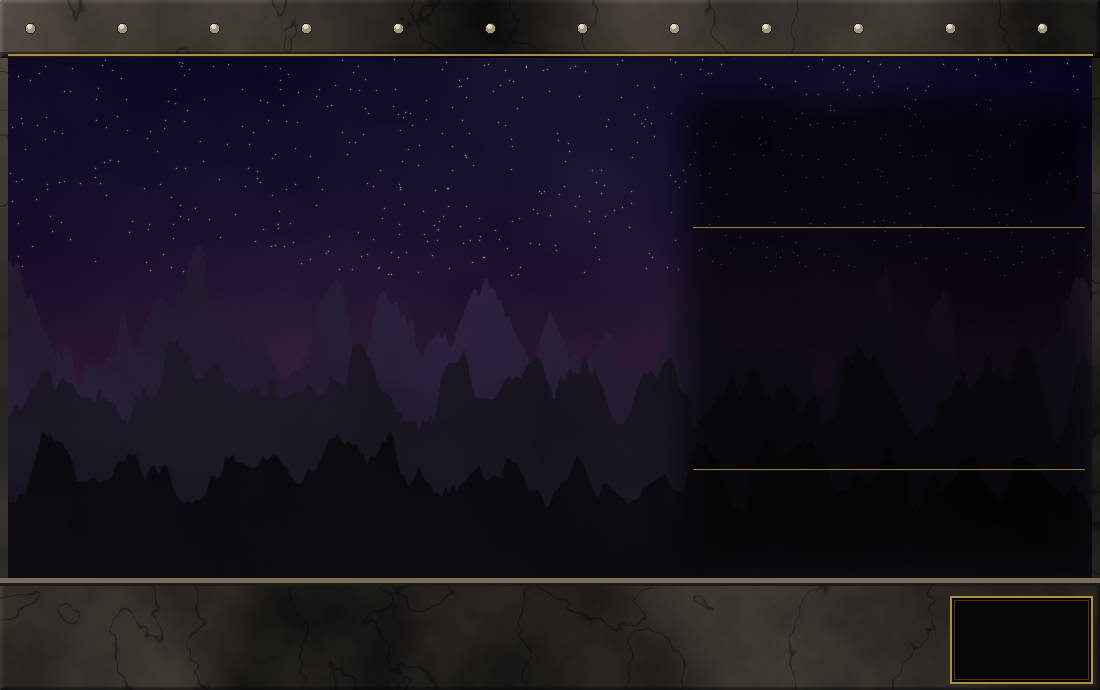
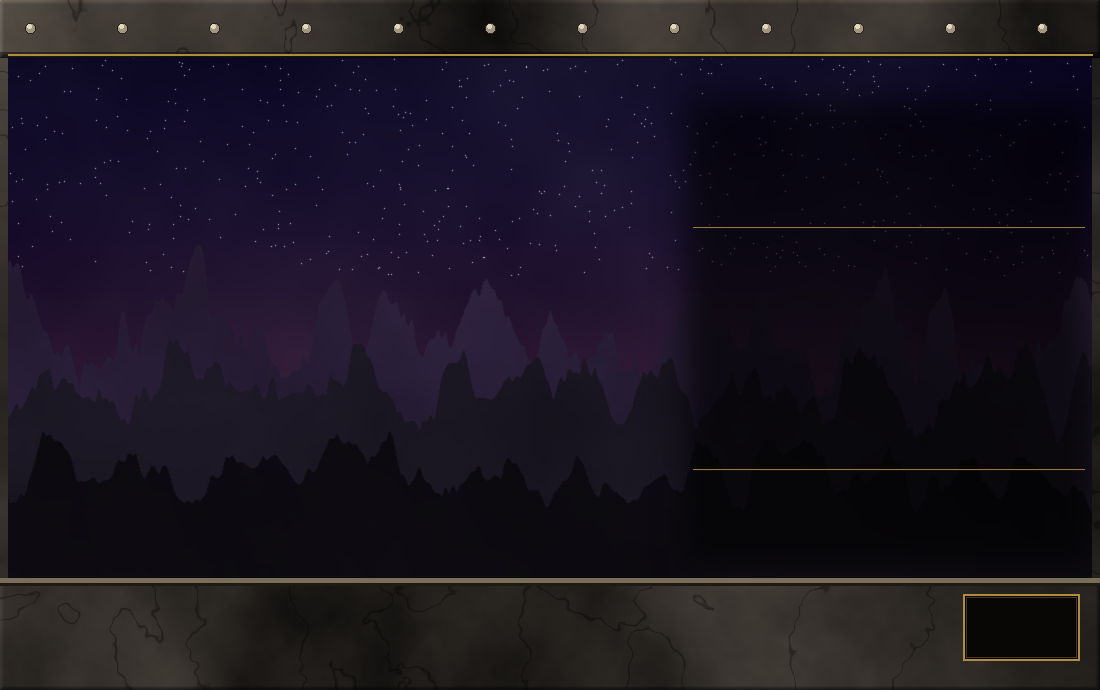
Section box in the launcher's stone and gold; smaller PLAY with the status above and time played below; game version in the bottom-right corner
Claude-Session: https://claude.ai/code/session_01HdbMracJDFwwKnLVPZ96Xg

Changed region(s): [[0.8655, 0.8522, 1.0, 1.0]]

diff --git a/src/Launcher.cs b/src/Launcher.cs
@@ -88,14 +88,14 @@ namespace AzerothLauncher
             StartPosition = FormStartPosition.CenterScreen;
 
             // layout: PLAY in the box at the bottom right, the sections under the news, the rest in the bottom bar
-            playBtn = Place(new WowButton("PLAY", Play, 130, 74, 16), 956, 603);
+            playBtn = Place(new WowButton("PLAY", Play, 104, 58, 14), 969, 598);         // smaller: status above, time played below
             playBtn.Skin = Retro.Play;
             foreach (string name in navNames)
             {
                 string n = name;
                 bool low = n == "Guide" || n == "Addons";       // these two sit in the bottom bar
                 nav[n] = Place(new WowButton(n.ToUpperInvariant(), delegate { ShowSection(n); }, low ? 159 : 128, 27, 8.5f),
-                               low ? (n == "Guide" ? 612 : 779) : 693, low ? H - 8 - 27 : 480);   // Guide and Addons: along the very bottom
+                               low ? (n == "Guide" ? 445 : 612) : 693, low ? H - 8 - 27 : 480);   // Guide and Addons: along the very bottom
                 nav[n].Skin = low ? Retro.Long : Retro.Button;
             }
             aboutBtn = Place(new WowButton("ABOUT LAUNCHER", delegate { ShowSection("About Launcher"); }, 159, 27, 8), W - 8 - 159 - 6, 98);         // under UPDATE LAUNCHER
@@ -295,12 +295,8 @@ namespace AzerothLauncher
                 g.DrawString(Lang.T("News"), hf, gold, 697, 204);
                 g.DrawString(Lang.T("Launcher"), hf, shadow, 698, 447);
                 g.DrawString(Lang.T("Launcher"), hf, gold, 697, 446);
-                // bottom bar: game version, the welcome line, play time, cloud note, status
-                string version = Data.GameVersion;
-                string gv = Lang.T("Game version") + (version.Length > 0 ? ":  " + version : "");
-                g.DrawString(gv, hf, shadow, 33, 591);
-                g.DrawString(gv, hf, gold, 32, 590);
             }
+            // bottom bar, left: the welcome line and the cloud note
             string bodyText = ClientPresent() ? "Press PLAY to enter Azeroth." :
                 (RequireLauncherInstall ? "Game client not found. Press INSTALL to download it first."
                                         : "Game client not found. Press INSTALL, or set the game folder in Options.");
@@ -308,30 +304,42 @@ namespace AzerothLauncher
             using (var b = new SolidBrush(Theme.Hex("#d7cea4")))
             using (var sh = new SolidBrush(Color.Black))
             {
-                var box = new RectangleF(32, 614, 560, 34);
+                var box = new RectangleF(32, 594, 395, 50);
                 g.DrawString(Lang.T(bodyText), Theme.F(9), sh, new RectangleF(box.X + 1, box.Y + 1, box.Width, box.Height));
                 g.DrawString(Lang.T(bodyText), Theme.F(9), b, box);
             }
-            PlayStats ps = ShownPlayStats();
-            string line = "";
-            if (ps.Sessions > 0 && StatsEnabled() && Cfg.Bool("home_playtime", true))
-                line = Lang.T("Time played: " + Duration(ps.Seconds) + "   |   Last session: " + Duration(ps.LastSeconds));
-            if (cloudNote.Length > 0) line = (line.Length > 0 ? line + "   |   " : "") + Lang.T(cloudNote);
-            if (line.Length > 0)
-                g.DrawString(line, Theme.F(8, FontStyle.Italic), new SolidBrush(Retro.Gold), new RectangleF(32, 646, 560, 16));
-            g.DrawString(Lang.T(status), Theme.F(9, FontStyle.Italic), new SolidBrush(Theme.Hex("#fff2b0")), new RectangleF(32, 663, 560, 18));
+            using (var gb = new SolidBrush(Retro.Gold))
+            using (var sf = new StringFormat())
+            {
+                if (cloudNote.Length > 0)
+                    g.DrawString(Lang.T(cloudNote), Theme.F(8, FontStyle.Italic), gb, new RectangleF(32, 640, 395, 16));
+                // bottom bar, right: status above PLAY, time played below it, the game version in the corner
+                sf.Alignment = StringAlignment.Center;
+                var rc = new RectangleF(800, 0, 292, 16);
+                using (var sb = new SolidBrush(Theme.Hex("#fff2b0")))
+                    g.DrawString(Lang.T(status), Theme.F(9, FontStyle.Italic), sb, new RectangleF(rc.X, 580, rc.Width, 16), sf);
+                PlayStats ps = ShownPlayStats();
+                if (ps.Sessions > 0 && StatsEnabled() && Cfg.Bool("home_playtime", true))
+                    g.DrawString(Lang.T("Time played: " + Duration(ps.Seconds) + "   |   Last session: " + Duration(ps.LastSeconds)),
+                                 Theme.F(8, FontStyle.Italic), gb, new RectangleF(rc.X, 658, rc.Width, 14), sf);
+                string version = Data.GameVersion;
+                sf.Alignment = StringAlignment.Far;
+                using (var vb = new SolidBrush(Theme.Hex("#b8a27a")))
+                    g.DrawString(Lang.T("Game version") + (version.Length > 0 ? ": " + version : ""), Theme.F(8), vb,
+                                 new RectangleF(rc.X, 673, rc.Width - 2, 14), sf);
+            }
         }
 
         public void SetStatus(string msg)
         {
             status = msg ?? "";
-            Invalidate(new Rectangle(20, 643, 740, 42));
+            Invalidate(new Rectangle(0, 578, W, H - 578));
         }
 
         public void SetCloudNote(string text)
         {
             cloudNote = text ?? "";
-            Invalidate(new Rectangle(20, 643, 740, 42));
+            Invalidate(new Rectangle(0, 578, W, H - 578));
         }
 
         // a section button is hidden while its feature is off: Cloud Save (cloud saving) and Stats (Options)
@@ -364,7 +372,7 @@ namespace AzerothLauncher
             else if (Installing) { playBtn.Label = "INSTALLING"; playBtn.FontSize = 18; }
             else if (Updating) { playBtn.Label = "UPDATING"; playBtn.FontSize = 20; }
             else { playBtn.Label = ClientPresent() ? "PLAY" : "INSTALL"; playBtn.FontSize = 24; }
-            Invalidate(new Rectangle(20, 584, 740, 102));
+            Invalidate(new Rectangle(0, 578, W, H - 578));
             RefreshGates();
         }
 

diff --git a/src/Sections.cs b/src/Sections.cs
@@ -24,7 +24,7 @@ namespace AzerothLauncher
             SetStyle(ControlStyles.AllPaintingInWmPaint | ControlStyles.UserPaint | ControlStyles.OptimizedDoubleBuffer |
                      ControlStyles.ResizeRedraw, true);
             Height = 50;
-            BackColor = Theme.Hex("#15100a");
+            BackColor = Theme.Hex("#0e0d14");
         }
 
         public string Title { get { return title; } set { title = value; Invalidate(); } }
@@ -36,13 +36,9 @@ namespace AzerothLauncher
             Graphics g = e.Graphics;
             g.Clear(BackColor);
             int w = Math.Max(Width, 200);
-            for (int i = 0; i < 30; i++)                     // bronze bar with a gradient
-            {
-                float y = 11 + i * 0.9f;
-                using (var p = new Pen(Theme.Mix(Theme.Hex("#6a5026"), Theme.Hex("#241908"), i / 29.0), 1.5f))
-                    g.DrawLine(p, 30, y, w - 4, y);
-            }
-            using (var p = new Pen(Theme.Hex("#b8893a"), 2)) g.DrawRectangle(p, 30, 11, w - 34, 27);
+            Image bar = Retro.Get("long");                  // the launcher's blue stone, framed in gold
+            if (bar != null) g.DrawImage(bar, new Rectangle(30, 11, w - 34, 28));
+            using (var p = new Pen(Theme.Hex("#c49a48"), 2)) g.DrawRectangle(p, 30, 11, w - 34, 27);
             Theme.Smooth(g);
             using (var sf = new StringFormat())
             using (var b = new SolidBrush(Theme.Hex("#fff0b0")))
@@ -143,7 +139,7 @@ namespace AzerothLauncher
         // ------------------------------------------------------------------ the window itself
         void BuildSide()
         {
-            Color bronzeD = Theme.Hex("#3a2a12"), dark = Theme.Hex("#15100a");
+            Color bronzeD = Theme.Hex("#2a2620"), dark = Theme.Hex("#0e0d14");   // night stone, like the launcher
             side = new Form();
             side.FormBorderStyle = FormBorderStyle.None;
             side.ShowInTaskbar = false;                      // the sections open inside the launcher, on its left side
@@ -163,7 +159,7 @@ namespace AzerothLauncher
                     CloseSide();
                 }
             };
-            var frame = new Bordered(Theme.Hex("#b8893a"), 2);
+            var frame = new Bordered(Theme.Hex("#c49a48"), 2);
             frame.Dock = DockStyle.Fill;
             side.Controls.Add(frame);
             var inner = new Panel();
@@ -204,7 +200,7 @@ namespace AzerothLauncher
                 strip.Controls.Add(b);
             }
             // left: the chat-style area that holds the section
-            var chat = new Bordered(Theme.Hex("#6b4a1c"), 2);
+            var chat = new Bordered(Theme.Hex("#8a7040"), 2);
             chat.Dock = DockStyle.Fill;
             body.Controls.Add(chat);
             chat.BringToFront();

diff --git a/src/Controls.cs b/src/Controls.cs
@@ -1,4 +1,4 @@
-// The look: 2006 wow.com colours, the gold bevel buttons, small icon buttons and shared UI helpers.
+// The look: 2006 wow.com colours, the gold bevel buttons, small icon buttons and shared UI helpers.
 using System;
 using System.Collections.Generic;
 using System.Drawing;
@@ -334,8 +334,10 @@ namespace AzerothLauncher
             Graphics g = e.Graphics;
             int s = Width;
             bool lit = !grayed && (active || hover);
-            g.Clear(Theme.Hex("#15100a"));
-            using (var b = new SolidBrush(Theme.Hex("#1c130a"))) g.FillRectangle(b, 1, 1, s - 3, s - 3);
+            g.Clear(Theme.Hex("#0e0d14"));
+            Image stone = Retro.Get(lit ? "btn_hover" : "btn");    // the launcher's blue stone
+            if (stone != null && !grayed) g.DrawImage(stone, new Rectangle(1, 1, s - 2, s - 2));
+            else using (var b = new SolidBrush(Theme.Hex("#1c1a20"))) g.FillRectangle(b, 1, 1, s - 3, s - 3);
             using (var p = new Pen(lit ? Theme.Gold : grayed ? Theme.Hex("#4a443a") : Theme.Hex("#7a5a22"), 2)) g.DrawRectangle(p, 1, 1, s - 3, s - 3);
             using (var p = new Pen(Theme.Hex("#3a2a12"), 1)) g.DrawRectangle(p, 4, 4, s - 9, s - 9);
             Theme.Smooth(g);

diff --git a/tools/make_launcher_art.py b/tools/make_launcher_art.py
@@ -155,8 +155,8 @@ def background(emblem):
             d.ellipse((sx - 5, sy - 5, sx + 5, sy + 5), fill=(160, 150, 130), outline=(40, 34, 26))
             d.ellipse((sx - 3, sy - 4, sx + 1, sy), fill=(225, 215, 190))
     # PLAY box: dark recess with a gold trim
-    d.rectangle((950, 596, 1092, 683), fill=(8, 7, 6), outline=(176, 140, 64), width=2)
-    d.rectangle((954, 600, 1088, 679), outline=(70, 55, 28), width=1)
+    d.rectangle((963, 594, 1079, 660), fill=(8, 7, 6), outline=(176, 140, 64), width=2)
+    d.rectangle((966, 597, 1076, 657), outline=(70, 55, 28), width=1)
     # the game's emblem (Azeroth Survivors / Aethus) at the top
     # (the emblem is drawn by the launcher, next to the title)
     return im
